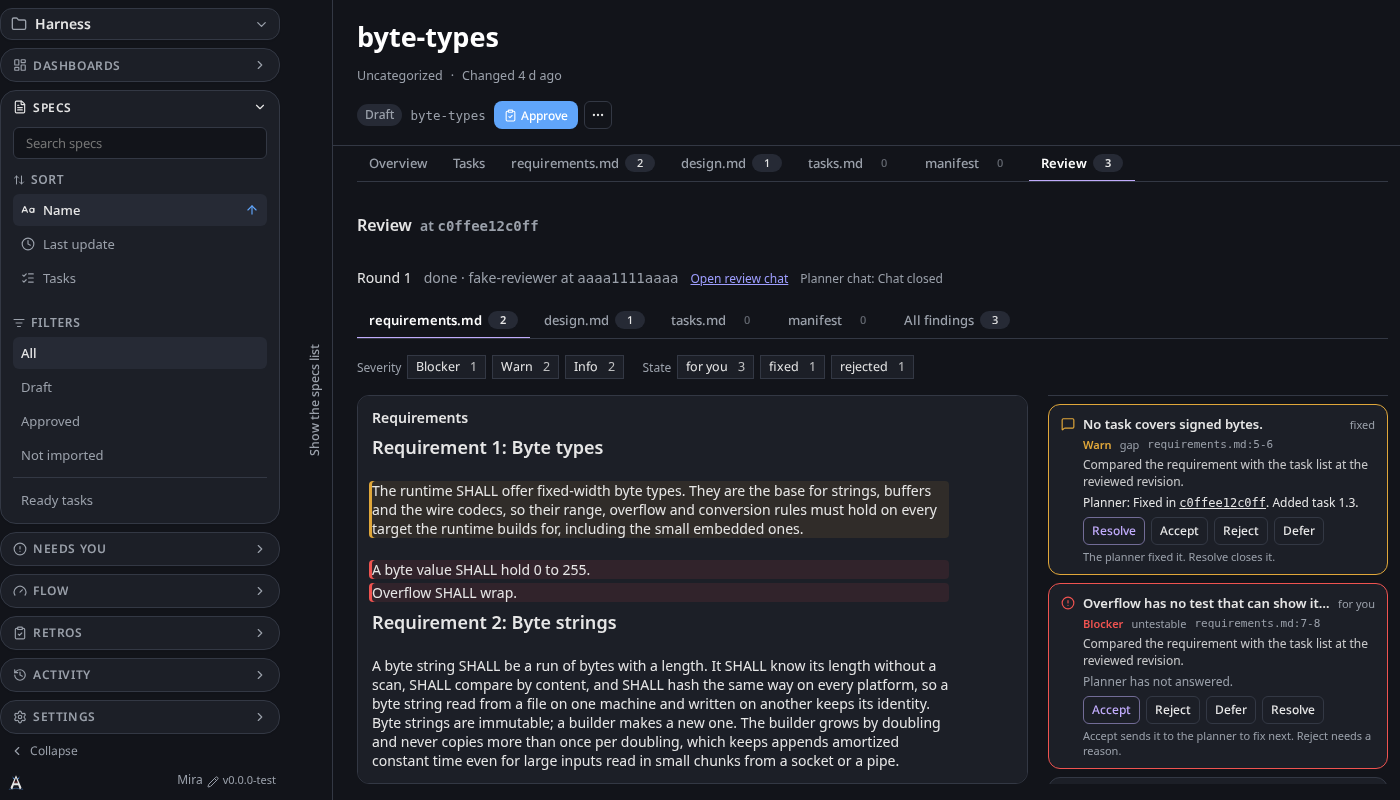
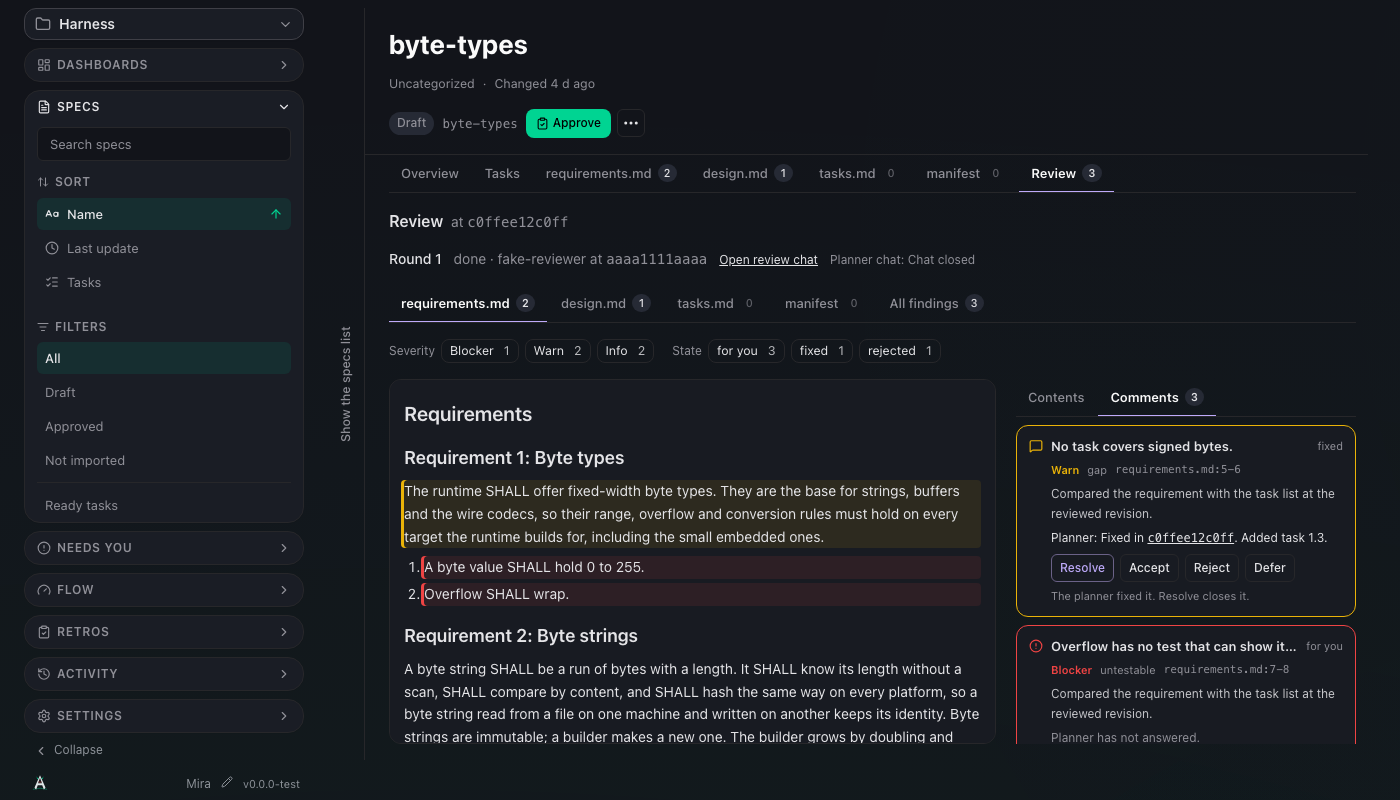
Keep the review side column's tab bar from shrinking

diff --git a/kirocrew-app/ui/src/ReviewView.tsx b/kirocrew-app/ui/src/ReviewView.tsx
@@ -329,7 +329,7 @@ export function DocTabs(props: {
       data-review-tabs={props.bar ? undefined : ''}
       {...(props.bar ? { [`${bar_.attr}s`]: '' } : {})}
       onKeyDown={key}
-      style={{ position: 'relative', display: 'flex', gap: 2, borderBottom: '1px solid var(--border)', overflowX: 'auto', scrollbarWidth: 'thin', minWidth: 0 }}
+      style={{ position: 'relative', display: 'flex', flex: 'none', gap: 2, borderBottom: '1px solid var(--border)', overflowX: 'auto', scrollbarWidth: 'thin', minWidth: 0 }}
     >
       {props.tabs.map((tab) => {
         const on = tab === props.current,
